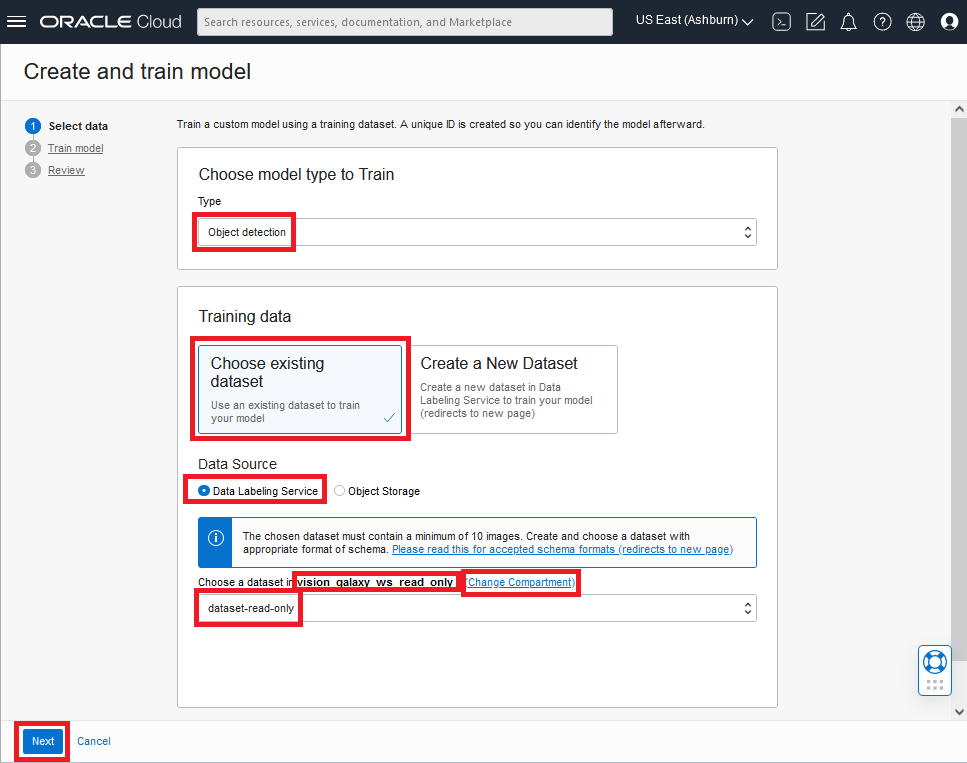
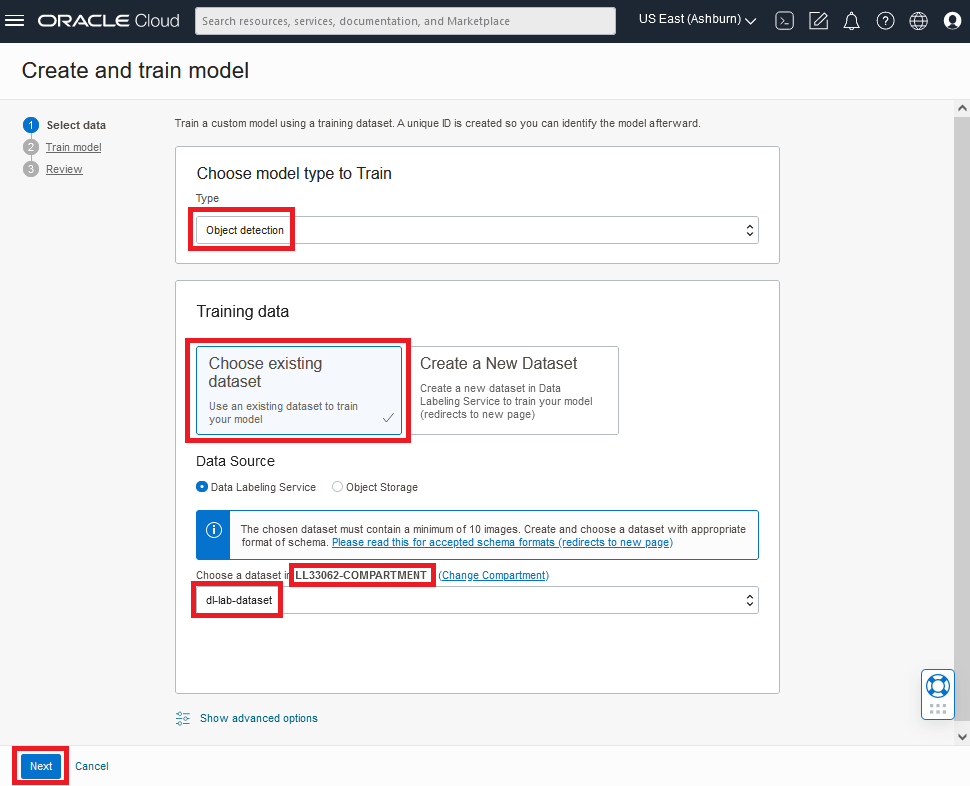
WMS11181 - bug fix
Changed lab 3 procedure to avoid shared dataset issue

diff --git a/oci-artificial-intelligence/vision-space/3-custom-model/3-custom-model.md b/oci-artificial-intelligence/vision-space/3-custom-model/3-custom-model.md
@@ -58,11 +58,9 @@ In this lab, you will use a pre-labeled set of images to train a custom object d
 
     c. For *Data Source*: select **Data Labeling Service**
 
-    d. For *Choose a dataset...*, click **Change compartment**
-    
-    e. Select compartment **vision\_galaxy\_ws\_read\_only**
+    d. Next to *Choose a dataset*, ensure the compartment is your assigned user compartment
 
-    f. When the dataset picklist populates, choose: **dataset-read-only**
+    f. In the dataset picklist, choose: **dl-lab-dataset**
 
 1. Click **Next**
 
